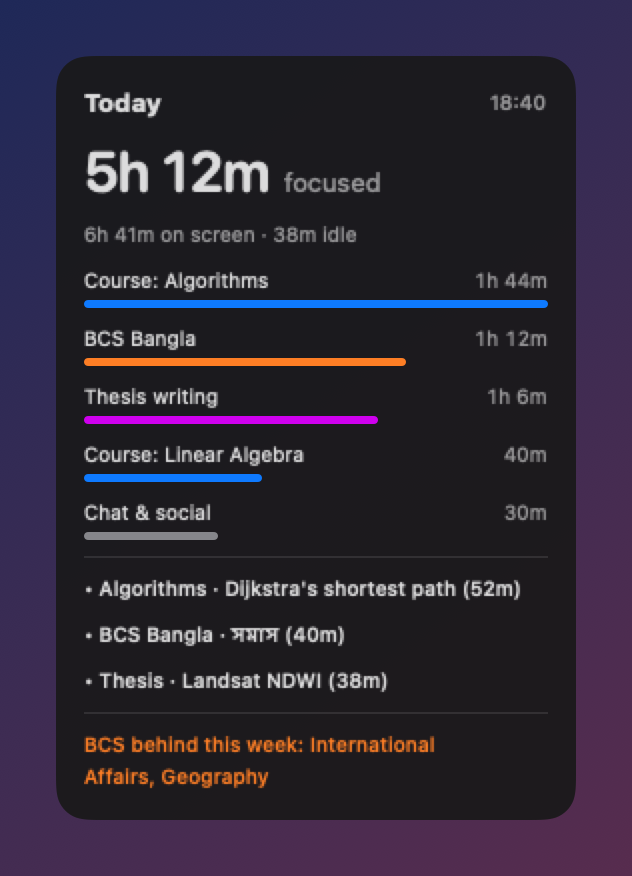
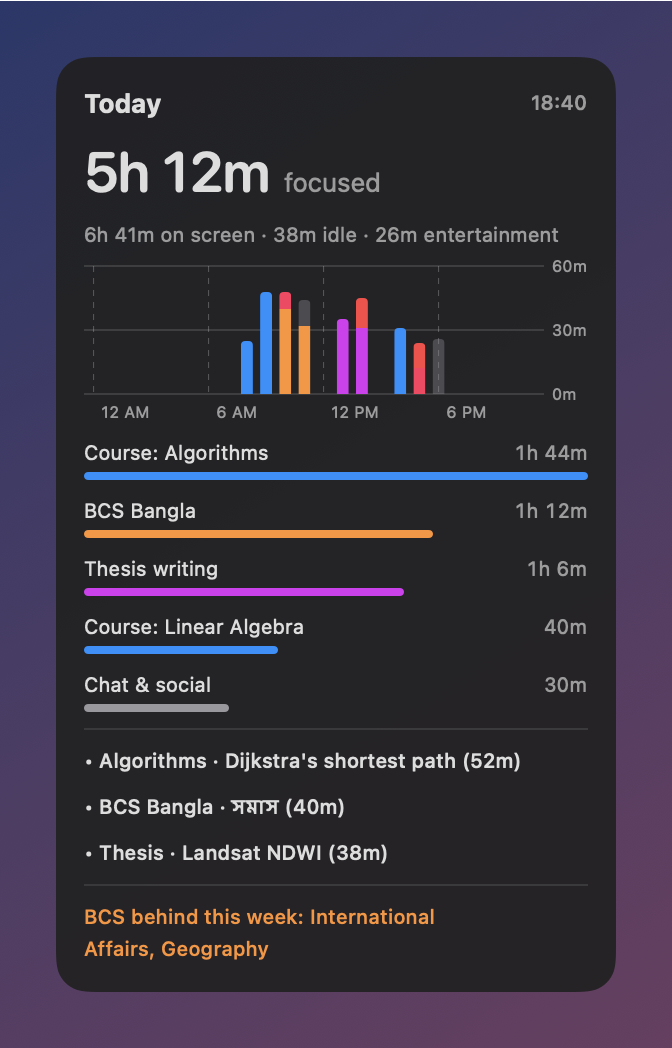
docs: describe the Subjects & labels window and charts for 0.2.0

Changed region(s): [[0.0601, 0.0308, 0.932, 0.9555]]

diff --git a/README.md b/README.md
@@ -12,6 +12,8 @@ you actually learned. Tell it your courses or exam subjects in your own words; i
 - 🧠 **Understands content, not just apps.** A YouTube lecture on eigenvalues counts as Linear Algebra; a YouTube music video does not.
 - 🗣 **You describe, it organises.** `studylens setup` turns "CSE undergrad, Algorithms and Linear Algebra, preparing for BCS" into categories.
 - ⚖ **Balance check.** Give exam subjects weights (e.g. marks) and the widget tells you which ones are falling behind.
+- 📊 **Screen Time-style charts.** Hourly bars for today and daily bars for the week, by subject group, with idle time and entertainment as their own colors.
+- ✏ **Fix a label in one click, and it sticks.** Type or pick the right subject; StudyLens re-labels that time, uses it from then on, and learns from the example. One thing always gets one label.
 - 😴 **Honest idle time.** 5 minutes without input counts as idle, unless a video or call is playing.
 - 🕶 **Private windows stay private.** Chrome incognito and Safari private windows are never captured.
 - 🖥 **Multi-monitor aware**, hides the widget at places you choose (e.g. campus), weekend check-in, optional Notion sync.
@@ -65,9 +67,19 @@ your answer to re-label time it couldn't place.
 
 ## Everyday use
 
-- **Menu bar (book icon):** show/hide the widget, pause tracking for an hour, weekend check-in, open the data folder.
-- **Report in the terminal:** `studylens report`
-- **Settings:** `~/Library/Application Support/StudyLens/config.json`
+**Menu bar (book icon) → Subjects & labels…** opens the app window:
+
+- **Overview**: today by hour or the last 7 days by day, stacked by subject group, with idle and entertainment, plus totals.
+- **Recent activity**: everything you did, named by what it was (the page or file title, or the topic of a chat), each with a
+  subject box. Pick or type a subject; a new name creates that subject. The choice applies to all of that thing's
+  minutes and to every future minute of it, and the topic becomes an example the AI learns from.
+- **Subjects**: add, rename or delete subjects and groups, edit how each looks on screen, or describe something new
+  and press **Add with AI**.
+
+The menu also has: show/hide the widget, keep it above windows, pause tracking for an hour, weekend check-in, open the
+data folder. In the terminal, `studylens report` prints today's summary.
+
+Advanced settings live in `~/Library/Application Support/StudyLens/config.json`:
 
 | Setting | Default | Meaning |
 |---|---|---|

diff --git a/CHANGELOG.md b/CHANGELOG.md
@@ -1,5 +1,18 @@
 # Changelog
 
+## 0.2.0 — 2026-11-07
+
+- **Subjects & labels window** (menu bar → Subjects & labels…): Overview charts, Recent activity with a type-or-pick
+  subject box, and a Subjects editor with "Add with AI". No more editing config.json by hand.
+- **Labels you choose stick**: for a specific window always, and for a topic whenever the AI sees it again; corrected
+  topics become examples in the AI's prompt.
+- **One thing, one label**: a window with a specific title keeps its first label (or yours) instead of being re-judged
+  on every screenshot; topics keep their subject; earlier duplicates are merged.
+- **Screen Time-style charts** in the widget and the Overview tab, with idle time and entertainment shown separately.
+- Activity is named by what you did (page title or chat topic), not by the app.
+- Widget stays fully on screen when moved between monitors or when one is unplugged; option to keep it above windows.
+- `studylens suggest`, and the installer retries registering the background job.
+
 ## 0.1.1 — 2026-11-07
 
 - `studylens setup` keeps all courses in one group instead of making a group per course.
